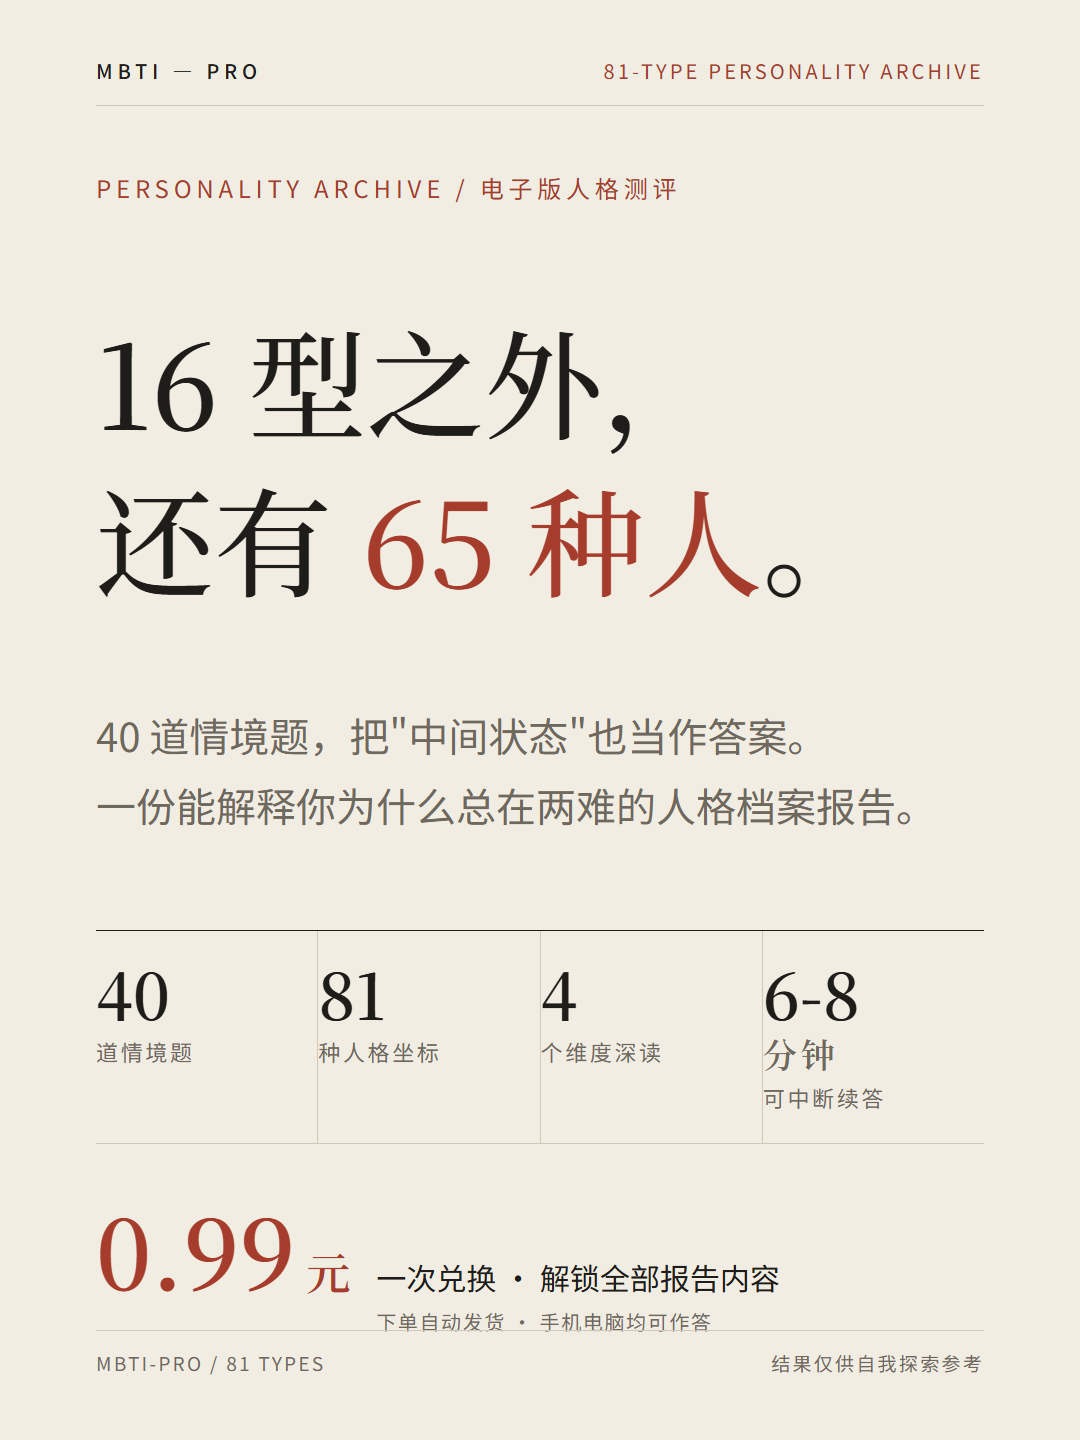
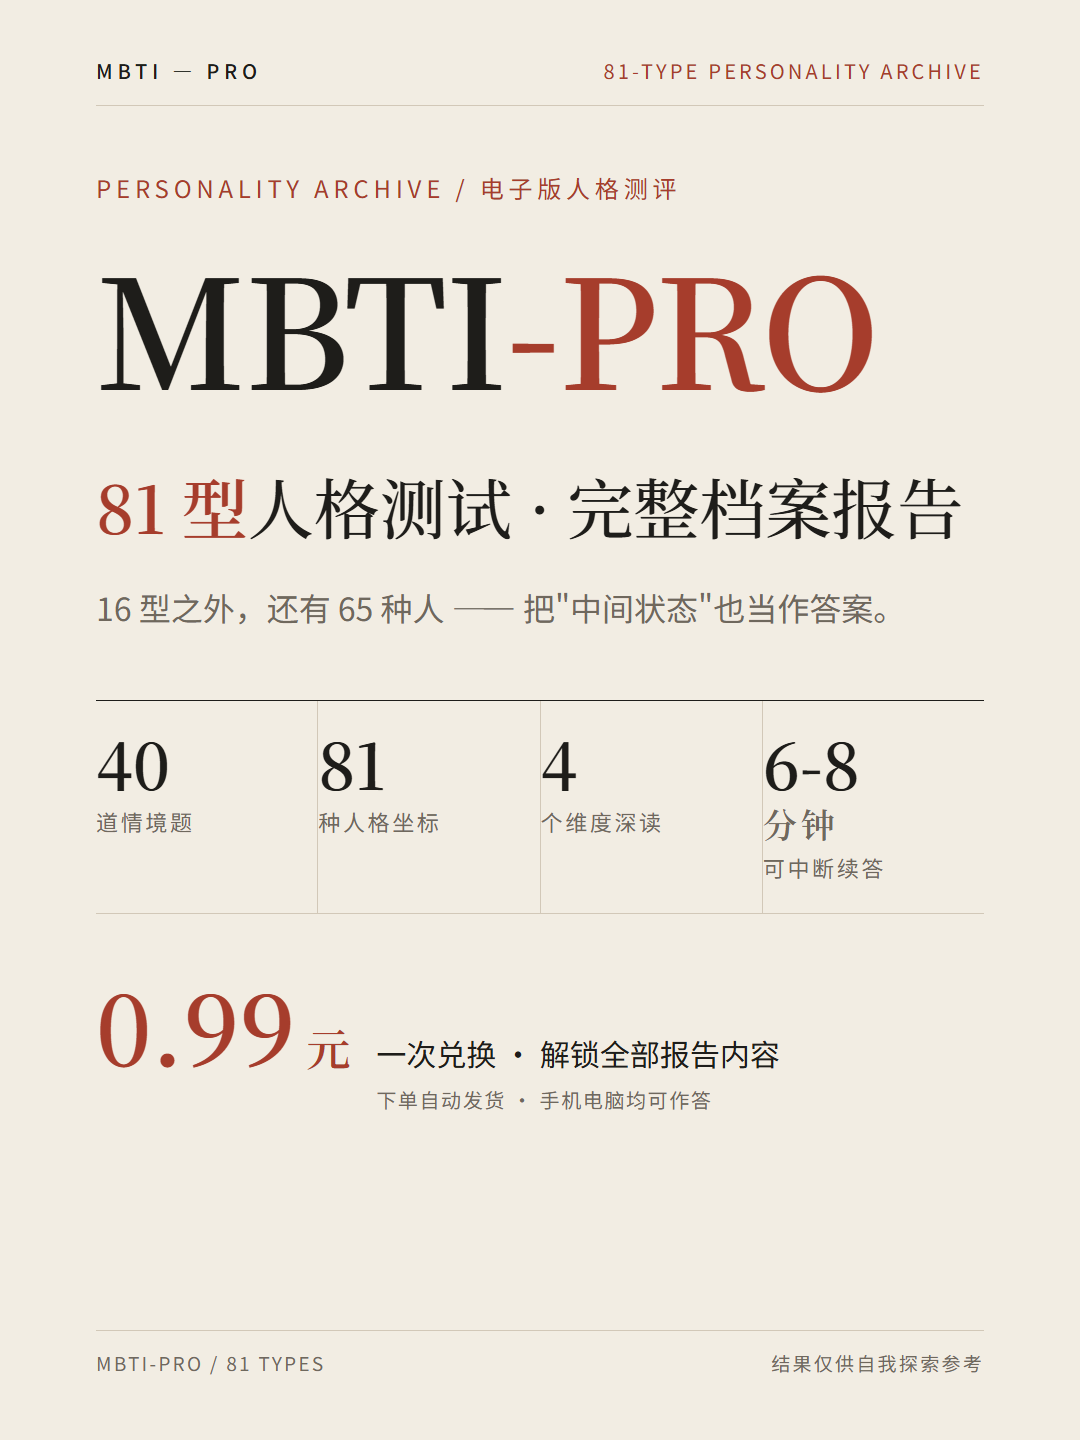
feat(shop): 商品主图品牌大字化 + 兑换码改 5 位纯数字
- 商品图-1：MBTI-PRO 放大为第一视觉（PRO 朱砂），副题「81 型人格测试 · 完整档案报告」，钩子句降为次行
- 商品图-3/详情：兑换码示例改为 5 位数字（如 82417）
- generate-access-codes.ts：默认 numeric 5 位（[10^(d-1),10^d) 区间，永不 0 开头防 Excel 吞前导零），与库内历史码去重，--style alnum 可回退；redeem 已有同 IP 10min/30 次限速兜底防穷举
- 文档同步：access-code-fulfillment.md、上架文档（含线上生成码池的 ssh 命令）

diff --git a/docs/xhs-shop/shop-cards.html b/docs/xhs-shop/shop-cards.html
@@ -29,17 +29,21 @@ body { background:#DDD8CE; padding:40px 0; }
 .eyebrow { position:absolute; left:96px; top:170px; font-size:24px; letter-spacing:.2em; color:var(--accent); }
 
 /* ── P1 主图 ── */
-.p1 .cover-title { position:absolute; left:96px; top:300px; width:900px; font-size:118px; line-height:1.34; font-weight:500; }
-.p1 .cover-sub { position:absolute; left:96px; top:700px; width:880px; font-size:40px; line-height:1.75; color:var(--muted); }
-.p1 .stat-band { position:absolute; left:96px; right:96px; top:930px; display:flex; border-top:1px solid var(--ink); border-bottom:1px solid var(--rule); }
+.p1 .brand { position:absolute; left:96px; top:248px; font-family:'Noto Serif SC','Songti SC','Playfair Display',serif;
+  font-size:152px; font-weight:600; letter-spacing:-.015em; line-height:1; }
+.p1 .brand span { color:var(--accent); }
+.p1 .cover-title { position:absolute; left:96px; top:458px; font-size:66px; font-weight:500; }
+.p1 .cover-title .hl { font-weight:600; }
+.p1 .hook { position:absolute; left:96px; top:584px; font-size:32px; color:var(--muted); }
+.p1 .stat-band { position:absolute; left:96px; right:96px; top:700px; display:flex; border-top:1px solid var(--ink); border-bottom:1px solid var(--rule); }
 .p1 .stat { flex:1; padding:26px 0 30px; border-right:1px solid var(--rule); }
 .p1 .stat:last-child { border-right:0; }
 .p1 .stat b { display:block; font-family:'Noto Serif SC','Songti SC',serif; font-size:64px; font-weight:600; line-height:1.1; }
 .p1 .stat span { display:block; margin-top:8px; font-size:22px; letter-spacing:.12em; color:var(--muted); }
-.p1 .price-line { position:absolute; left:96px; right:96px; top:1180px; display:flex; align-items:baseline; gap:26px; }
+.p1 .price-line { position:absolute; left:96px; right:96px; top:956px; display:flex; align-items:baseline; gap:26px; }
 .p1 .price { font-family:'Noto Serif SC','Songti SC',serif; font-size:96px; font-weight:600; color:var(--accent); }
 .p1 .price-note { font-size:30px; color:var(--ink); }
-.p1 .price-note small { display:block; font-size:20px; color:var(--muted); margin-top:8px; letter-spacing:.08em; }
+.p1 .price-note small { display:block; font-size:20px; color:var(--muted); margin-top:10px; letter-spacing:.08em; }
 
 /* ── P2 你将获得 ── */
 .p2 .bar { position:absolute; left:96px; top:300px; width:72px; height:4px; background:var(--accent); }
@@ -102,8 +106,9 @@ body { background:#DDD8CE; padding:40px 0; }
 <section class="page p1">
   <div class="head"><span class="h-l">MBTI — PRO</span><span class="h-r">81-TYPE PERSONALITY ARCHIVE</span></div>
   <p class="eyebrow">PERSONALITY ARCHIVE / 电子版人格测评</p>
-  <h1 class="cover-title serif">16 型之外，<br/>还有 <span class="hl">65 种人</span>。</h1>
-  <p class="cover-sub">40 道情境题，把"中间状态"也当作答案。<br/>一份能解释你为什么总在两难的人格档案报告。</p>
+  <h1 class="brand serif">MBTI<span>-PRO</span></h1>
+  <h2 class="cover-title serif"><span class="hl">81 型</span>人格测试 · 完整档案报告</h2>
+  <p class="hook">16 型之外，还有 65 种人 —— 把"中间状态"也当作答案。</p>
   <div class="stat-band">
     <div class="stat"><b>40</b><span>道情境题</span></div>
     <div class="stat"><b>81</b><span>种人格坐标</span></div>
@@ -141,7 +146,7 @@ body { background:#DDD8CE; padding:40px 0; }
     <div class="step">
       <p class="no">STEP 01 / 自动发货</p>
       <h3>下单后立即查看兑换码</h3>
-      <p>付款成功后系统自动发货：在「订单详情」或发货消息里复制你的专属兑换码（形如 XXXX-XXXX-XXXX-XXXX）。</p>
+      <p>付款成功后系统自动发货：在「订单详情」或发货消息里复制你的专属兑换码（5 位数字，如 82417）。</p>
     </div>
     <div class="step">
       <p class="no">STEP 02 / 打开测评页</p>

diff --git a/docs/MBTI-PRO-小红书商品上架-2026-11-12.md b/docs/MBTI-PRO-小红书商品上架-2026-11-12.md
@@ -46,7 +46,7 @@ MBTI-PRO 用 3×3×3×3 的坐标体系，把"中间状态"也当作答案——
 
 【怎么使用】
 
-① 下单后系统自动发货，在订单详情/发货消息里复制专属兑换码
+① 下单后系统自动发货，在订单详情/发货消息里复制专属兑换码（5 位数字，如 82417）
 ② 点击发货消息里的测评链接，自动兑换进入答题页
 ③ 答完 40 题即刻查看完整报告，海报可长按保存
 
@@ -77,7 +77,7 @@ MBTI-PRO 用 3×3×3×3 的坐标体系，把"中间状态"也当作答案——
 |---|---|
 | 价格 | **0.99 元**（与站内口径一致，不设划线价） |
 | 运费 | 0（虚拟商品） |
-| 库存 | 与兑换码批次挂钩——上架前先生成 ≥100 个码：`cd server && npm run access:codes -- --count 100 --batch xhs-first`（输出在 `server/access-codes/`，勿外泄整批） |
+| 库存 | 与兑换码批次挂钩——上架前先生成 ≥100 个 **5 位数字码**。必须在**线上服务器**执行（码写进服务器 SQLite）：`ssh root@43.132.217.70 "cd /opt/MBTI-PRO/server && npx tsx scripts/generate-access-codes.ts --count 100 --batch xhs-first"`，然后 `cat access-codes/xhs-first-*.csv` 把码列导入店铺自动发货（勿外泄整批） |
 | 发货方式 | 平台「自动发货」按订单触发，模板直接复制 `docs/access-code-fulfillment.md` §2.3（含 `{{code}}` 变量与售后话术） |
 
 ## 五、上架图清单（上传顺序即编号）

diff --git a/docs/access-code-fulfillment.md b/docs/access-code-fulfillment.md
@@ -7,7 +7,8 @@
 
 ```bash
 cd server
-npm run access:codes -- --count 100 --batch xhs-2026-11 --prefix MBTI --max-redemptions 3 --days 180
+npm run access:codes -- --count 100 --batch xhs-2026-11 --max-redemptions 3 --days 180
+# 默认生成 5 位纯数字码（如 82417，对标店铺 4-5 位验证码习惯）；--style alnum 可回退旧长码
 ```
 
 生成结果：
@@ -20,7 +21,7 @@ CSV 字段：
 
 ```text
 code,batch,maxRedemptions,expiresAt
-MBTI-XXXX-XXXX-XXXX,xhs-2026-11,3,2027-05-11T...
+82417,xhs-2026-11,3,2027-05-11T...   ← 5 位纯数字，不以 0 开头
 ```
 
 `server/access-codes/` 已加入 `.gitignore`，**不要把兑换码 CSV 提交到仓库或公开网盘**。
